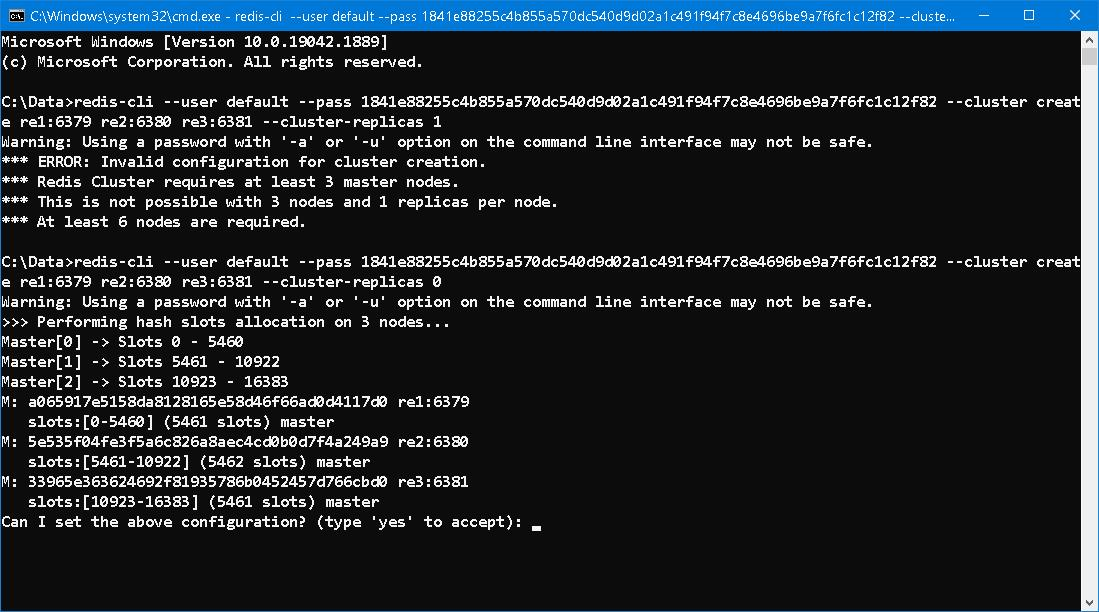
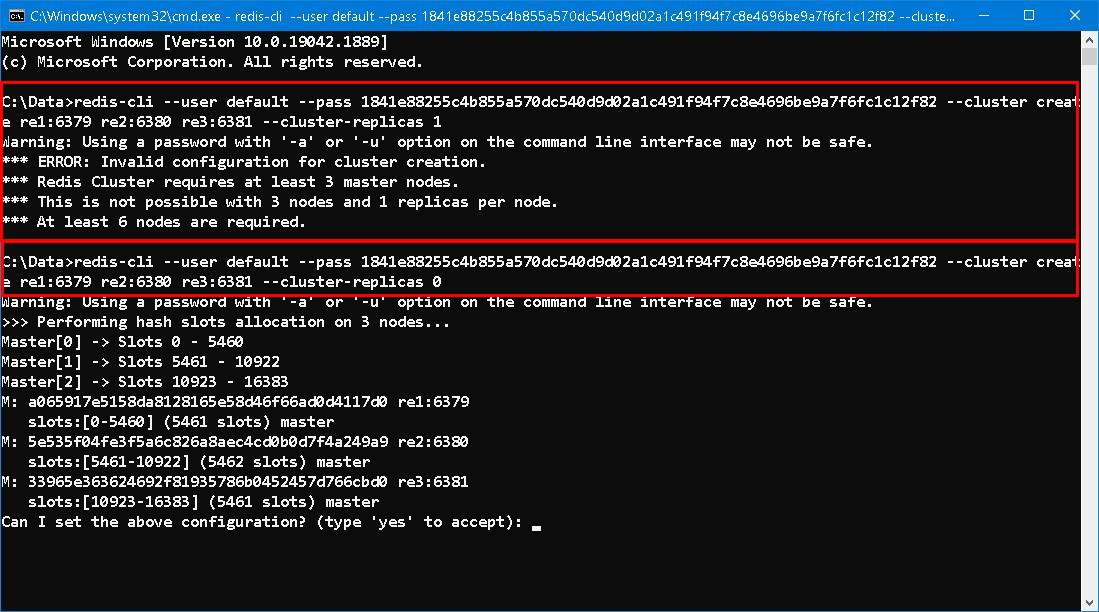
write more

Changed region(s): [[0.0, 0.1242, 0.99, 0.4967]]

diff --git a/README.md b/README.md
@@ -40,7 +40,7 @@ connect to `re1`. The rest is history...
 
 
 #### I. System Setup 
-Combining instructions on [RU301](https://redis.io/university/courses/ru301/) and experience from [Redis7.2.4-Homebrew-Replication](https://github.com/Albert0i/Redis7.2.4-Homebrew-Replication), a version of `redis.conf` is devised for each node. Redis recommend a minimum of 3 master nodes each with 2 replicas. 
+Combining instructions on [RU301](https://redis.io/university/courses/ru301/) and experience from [Redis7.2.4-Homebrew-Replication](https://github.com/Albert0i/Redis7.2.4-Homebrew-Replication), a version of `redis.conf` is devised for each node, nine in total. 
 ```
 # redis.conf file
 port 6379
@@ -56,6 +56,9 @@ masterauth 1841e88255c4b855a570dc540d9d02a1c491f94f7c8e4696be9a7f6fc1c12f82
 . . . 
 ```  
 
+It is *recommended* to have a minimum of 3 master nodes and each with 2 replicas. 
+
+![alt 3 nodes](img/3-nodes.JPG)
 
 
 #### II.
